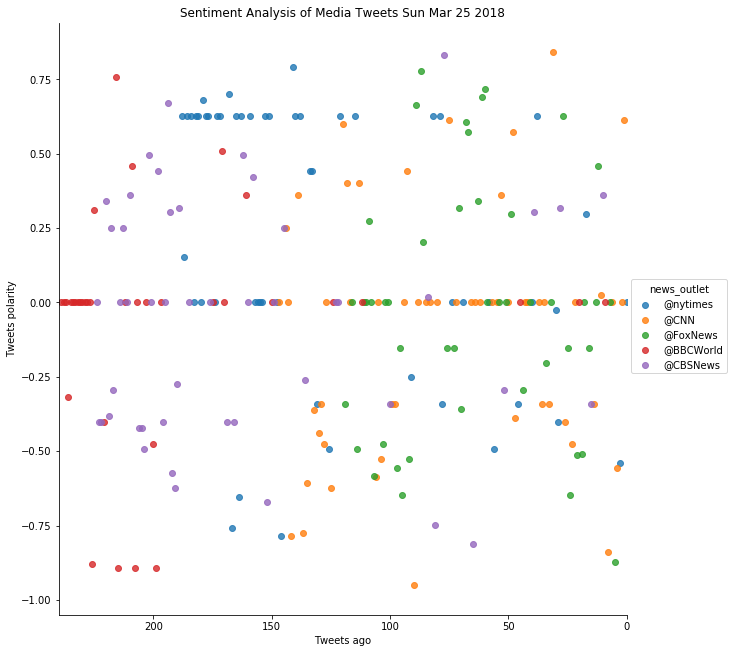
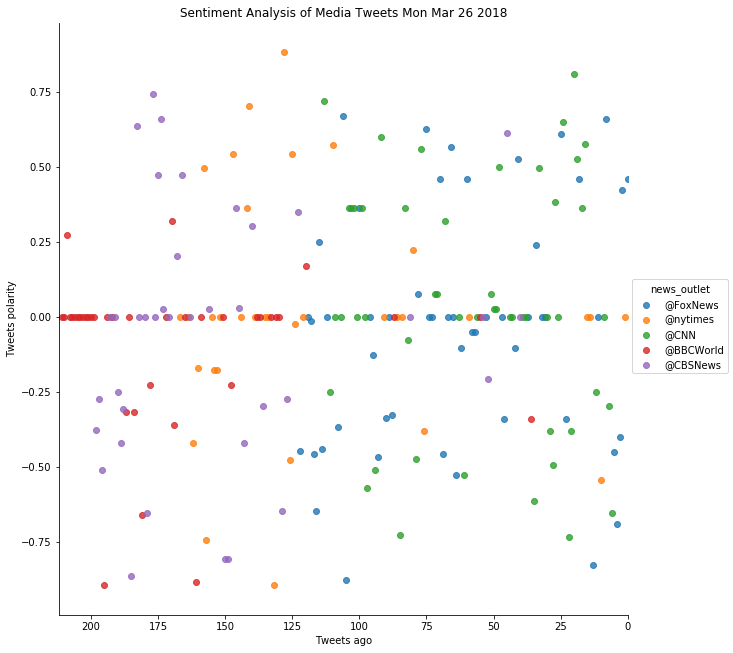
show dataframe, update outputs

diff --git a/PySentiments/README.md b/PySentiments/README.md
@@ -32,7 +32,7 @@ today
 
 
 
-    datetime.datetime(2018, 3, 25, 21, 9, 34, 434402)
+    datetime.datetime(2018, 3, 26, 12, 59, 51, 27954)
 
 
 
@@ -78,28 +78,32 @@ def collect_tweets(target_news,outcsv):
             for tweet in public_tweets["statuses"]:
                 if human_tweet(tweet['user']):
                     target_string = tweet['text']
-                    compound = analyzer.polarity_scores(target_string)["compound"]
-                    sentiments.append({'news_outlet':search_term,
+                    vader_scores = analyzer.polarity_scores(target_string)
+                    tweet_analysis = {'news_outlet':search_term,
                                        'date':tweet['created_at'],
-                                       'compound_sent':compound,
-                                       'tweet':target_string})
+                                       'compound':vader_scores["compound"],
+                                       'positive':vader_scores["pos"],
+                                       'negative':vader_scores["neg"],
+                                       'neutral':vader_scores["neu"],
+                                       'tweet':target_string}
+                    sentiments.append(tweet_analysis)
                 oldest_tweet = tweet['id']
     # Aggregate into a dataframe the data collected
     sentiment_df = pd.DataFrame(sentiments) 
+
     # Update date and sort
     sentiment_df['seconds ago'] = sentiment_df['date'].map(seconds_ago)
     sentiment_df = sentiment_df.sort_values("seconds ago")
     sentiment_df.to_csv(outcsv+".csv",index=False)
     print(f"... collected {len(sentiment_df)} total tweets")
-
+    display(sentiment_df.head())
     
 #define function for plotting     
 def create_plots(filename):
     with open(filename+".csv") as sentimentfile:
         sentiment_df = pd.read_csv(sentimentfile, delimiter=',')        
         psd = sentiment_df.reset_index()
-        
-        sns.lmplot(x="index", y="compound_sent", hue="news_outlet",data=psd, size=9, fit_reg=False)        
+        sns.lmplot(x="index", y="compound", hue="news_outlet",data=psd, size=9, fit_reg=False)        
         title = "Sentiment Analysis of Media Tweets " + today.strftime("%a %b %d %Y")
         plt.title(title)
         plt.ylabel("Tweets polarity")
@@ -110,7 +114,7 @@ def create_plots(filename):
         plt.savefig(filename+"_sentiment.png")
         plt.show()
 
-        averages = sentiment_df.groupby("news_outlet")["compound_sent"].mean()
+        averages = sentiment_df.groupby("news_outlet")["compound"].mean()
         x_values = np.arange(len(averages))
         sns.barplot(x_values, averages)
         plt.xticks(x_values, target_news)
@@ -146,7 +150,97 @@ collect_tweets(target_news,tweet_data_file)
     Collecting tweets for @CNN...
     Collecting tweets for @FoxNews...
     Collecting tweets for @nytimes...
-    ... collected 240 total tweets
+    ... collected 212 total tweets
+
+
+
+<div>
+<style>
+    .dataframe thead tr:only-child th {
+        text-align: right;
+    }
+
+    .dataframe thead th {
+        text-align: left;
+    }
+
+    .dataframe tbody tr th {
+        vertical-align: top;
+    }
+</style>
+<table border="1" class="dataframe">
+  <thead>
+    <tr style="text-align: right;">
+      <th></th>
+      <th>compound</th>
+      <th>date</th>
+      <th>negative</th>
+      <th>neutral</th>
+      <th>news_outlet</th>
+      <th>positive</th>
+      <th>tweet</th>
+      <th>seconds ago</th>
+    </tr>
+  </thead>
+  <tbody>
+    <tr>
+      <th>126</th>
+      <td>0.4585</td>
+      <td>Mon Mar 26 19:59:38 +0000 2018</td>
+      <td>0.000</td>
+      <td>0.850</td>
+      <td>@FoxNews</td>
+      <td>0.150</td>
+      <td>RT @ainsleyearhardt: .@dbongino: "Trying to di...</td>
+      <td>61213</td>
+    </tr>
+    <tr>
+      <th>178</th>
+      <td>0.0000</td>
+      <td>Mon Mar 26 19:59:38 +0000 2018</td>
+      <td>0.000</td>
+      <td>1.000</td>
+      <td>@nytimes</td>
+      <td>0.000</td>
+      <td>RT @nytimes: Louis Vuitton Names Virgil Abloh ...</td>
+      <td>61213</td>
+    </tr>
+    <tr>
+      <th>127</th>
+      <td>0.4215</td>
+      <td>Mon Mar 26 19:59:37 +0000 2018</td>
+      <td>0.090</td>
+      <td>0.752</td>
+      <td>@FoxNews</td>
+      <td>0.158</td>
+      <td>RT @FoxNews: .@charliekirk11: "They're using a...</td>
+      <td>61214</td>
+    </tr>
+    <tr>
+      <th>128</th>
+      <td>-0.4003</td>
+      <td>Mon Mar 26 19:59:37 +0000 2018</td>
+      <td>0.155</td>
+      <td>0.757</td>
+      <td>@FoxNews</td>
+      <td>0.088</td>
+      <td>@MissTygrr @FoxNews Yeah old bag. Look at your...</td>
+      <td>61214</td>
+    </tr>
+    <tr>
+      <th>129</th>
+      <td>-0.6908</td>
+      <td>Mon Mar 26 19:59:37 +0000 2018</td>
+      <td>0.825</td>
+      <td>0.175</td>
+      <td>@FoxNews</td>
+      <td>0.000</td>
+      <td>@FoxNews terrorist</td>
+      <td>61214</td>
+    </tr>
+  </tbody>
+</table>
+</div>
 
 
 
@@ -155,9 +249,9 @@ create_plots(tweet_data_file)
 ```
 
 
-![png](output/output_5_2.png)
+![png](output/output_5_0.png)
 
 
 
-![png](output/output_5_3.png)
+![png](output/output_5_1.png)
 
